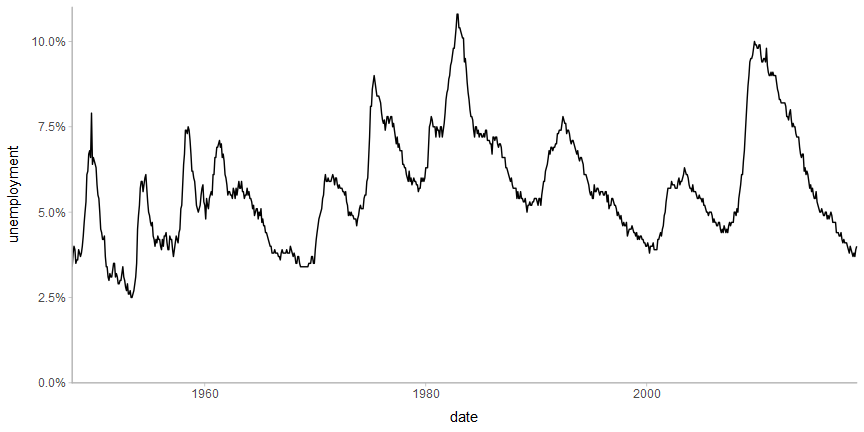
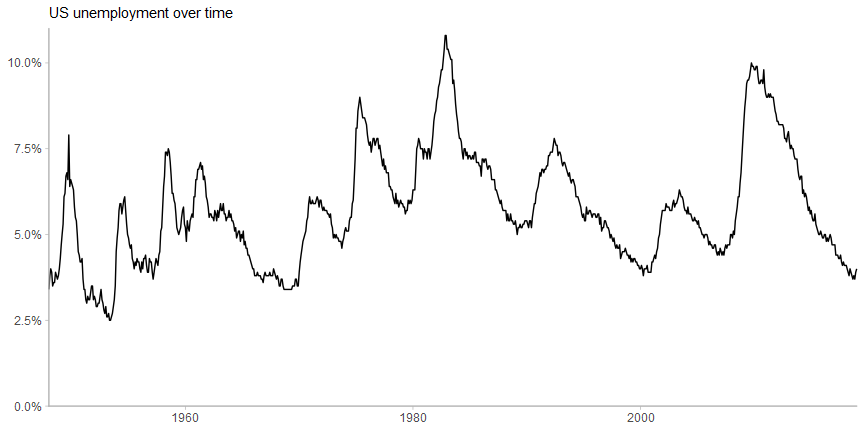
more unemployment stuff

diff --git a/us-unemployment.md b/us-unemployment.md
@@ -59,11 +59,13 @@ y_axis = list(
   coord_cartesian(ylim = c(0, .11), expand = FALSE),
   scale_y_continuous(labels = scales::percent)
 )
+title = labs(x = NULL, y = NULL, subtitle = "US unemployment over time")
 
 df %>%
   ggplot(aes(x = date, y = unemployment)) +
   geom_line() +
-  y_axis
+  y_axis +
+  title 
 ```
 
 ![](us-unemployment_files/figure-gfm/unnamed-chunk-3-1.png)<!-- -->
@@ -83,25 +85,25 @@ m = with(df, bsts(logit_unemployment, state.specification = list() %>%
   niter = 10000))
 ```
 
-    ## =-=-=-=-= Iteration 0 Sat Feb 16 18:51:30 2019
+    ## =-=-=-=-= Iteration 0 Sat Feb 16 21:35:26 2019
     ##  =-=-=-=-=
-    ## =-=-=-=-= Iteration 1000 Sat Feb 16 18:51:39 2019
+    ## =-=-=-=-= Iteration 1000 Sat Feb 16 21:35:35 2019
     ##  =-=-=-=-=
-    ## =-=-=-=-= Iteration 2000 Sat Feb 16 18:51:47 2019
+    ## =-=-=-=-= Iteration 2000 Sat Feb 16 21:35:43 2019
     ##  =-=-=-=-=
-    ## =-=-=-=-= Iteration 3000 Sat Feb 16 18:51:56 2019
+    ## =-=-=-=-= Iteration 3000 Sat Feb 16 21:35:53 2019
     ##  =-=-=-=-=
-    ## =-=-=-=-= Iteration 4000 Sat Feb 16 18:52:05 2019
+    ## =-=-=-=-= Iteration 4000 Sat Feb 16 21:36:02 2019
     ##  =-=-=-=-=
-    ## =-=-=-=-= Iteration 5000 Sat Feb 16 18:52:13 2019
+    ## =-=-=-=-= Iteration 5000 Sat Feb 16 21:36:11 2019
     ##  =-=-=-=-=
-    ## =-=-=-=-= Iteration 6000 Sat Feb 16 18:52:22 2019
+    ## =-=-=-=-= Iteration 6000 Sat Feb 16 21:36:20 2019
     ##  =-=-=-=-=
-    ## =-=-=-=-= Iteration 7000 Sat Feb 16 18:52:30 2019
+    ## =-=-=-=-= Iteration 7000 Sat Feb 16 21:36:28 2019
     ##  =-=-=-=-=
-    ## =-=-=-=-= Iteration 8000 Sat Feb 16 18:52:39 2019
+    ## =-=-=-=-= Iteration 8000 Sat Feb 16 21:36:37 2019
     ##  =-=-=-=-=
-    ## =-=-=-=-= Iteration 9000 Sat Feb 16 18:52:47 2019
+    ## =-=-=-=-= Iteration 9000 Sat Feb 16 21:36:46 2019
     ##  =-=-=-=-=
 
 ## Spaghetti plot
@@ -140,7 +142,8 @@ df %>%
   geom_line(aes(y = .value, group = .draw), alpha = 1/20, data = fits %>% sample_draws(100)) +
   geom_line(aes(y = .prediction, group = .draw), alpha = 1/20, data = predictions %>% sample_draws(100)) +
   geom_point() +
-  y_axis
+  y_axis +
+  title
 ```
 
 ![](us-unemployment_files/figure-gfm/unnamed-chunk-6-1.png)<!-- -->
@@ -154,6 +157,23 @@ fit_color = "#3573b9"
 prediction_color = "#e41a1c"
 
 x_axis = scale_x_date(date_breaks = "1 years", labels = year)
+arrow_spec = arrow(length = unit(6, "points"), type = "closed")
+fit_annotation = list(
+  annotate("text", x = ymd("2014-04-08"), y = .09, hjust = 0, vjust = 0, lineheight = 1.1,
+    label = 'Uncertainty in what\nunemployment'),
+  annotate("text", x = ymd("2014-04-08"), y = .09, hjust = 0, vjust = 0, lineheight = 1.1,
+    label = '\n                         was', color = fit_color, fontface = "bold"),
+  annotate("segment", x = ymd("2015-03-01"), xend = ymd("2015-03-01"), y = .087, yend = .06, linejoin = "mitre",
+    color = fit_color, size = 1, arrow = arrow_spec)
+)
+prediction_annotation = list(
+  annotate("text", x = ymd("2017-12-06"), y = .09, hjust = 0, vjust = 0, lineheight = 1.1,
+    label = 'Uncertainty in what \nunemployment'),
+  annotate("text", x = ymd("2017-12-06"), y = .09, hjust = 0, vjust = 0, lineheight = 1.1,
+    label = '\n                         will be', color = prediction_color, fontface = "bold"),
+  annotate("segment", x = ymd("2019-02-01"), xend = ymd("2019-02-01"), y = .087, yend = .053, linejoin = "mitre",
+    color = prediction_color, size = 1, arrow = arrow_spec)
+)
 
 df %>%
   filter(year(date) >= since_year) %>%
@@ -163,15 +183,40 @@ df %>%
   geom_line(aes(y = .prediction, group = .draw), alpha = 1/20, color = prediction_color, size = .75,
     data = predictions %>% sample_draws(100)) +
   geom_point(size = 0.75) +
+  fit_annotation +
+  prediction_annotation +
   y_axis +
-  x_axis
+  x_axis +
+  title
 ```
 
 ![](us-unemployment_files/figure-gfm/unnamed-chunk-7-1.png)<!-- -->
 
 ## Uncertainty bands
 
-We could instead use predictive bands:
+We could instead use a predictive band:
+
+``` r
+df %>%
+  filter(year(date) >= since_year) %>%
+  ggplot(aes(x = date, y = unemployment)) +
+  stat_lineribbon(aes(y = .value), fill = adjustcolor(fit_color, alpha.f = .25), color = fit_color, .width = .95,
+    data = fits %>% filter(year(date) >= since_year)) +
+  stat_lineribbon(aes(y = .prediction), fill = adjustcolor(prediction_color, alpha.f = .25), color = prediction_color, .width = .95,
+    data = predictions) +
+  geom_point(size = 0.75) +
+  fit_annotation +
+  prediction_annotation +
+  y_axis +
+  x_axis +
+  title
+```
+
+![](us-unemployment_files/figure-gfm/unnamed-chunk-8-1.png)<!-- -->
+
+But that loses a lot of nuance and fixes the reader to whatever
+arbitrary interval the visualization designer chose to display. One
+alternative would be to show many intervals:
 
 ``` r
 df %>%
@@ -180,11 +225,14 @@ df %>%
   stat_lineribbon(aes(y = .value), fill = fit_color, color = fit_color, alpha = 1/5, data = fits %>% filter(year(date) >= since_year)) +
   stat_lineribbon(aes(y = .prediction), fill = prediction_color, color = prediction_color, alpha = 1/5, data = predictions) +
   geom_point(size = 0.75) +
+  fit_annotation +
+  prediction_annotation +
   y_axis +
-  x_axis
+  x_axis +
+  title
 ```
 
-![](us-unemployment_files/figure-gfm/unnamed-chunk-8-1.png)<!-- -->
+![](us-unemployment_files/figure-gfm/unnamed-chunk-9-1.png)<!-- -->
 
 ## Gradient plot
 
@@ -201,11 +249,14 @@ df %>%
   stat_lineribbon(aes(y = .prediction), fill = prediction_color, alpha = 1/n_bands, .width = ppoints(n_bands),
     data = predictions, color = NA) +
   geom_point(size = 0.75) +
+  fit_annotation +
+  prediction_annotation +
   y_axis +
-  x_axis
+  x_axis +
+  title
 ```
 
-![](us-unemployment_files/figure-gfm/unnamed-chunk-9-1.png)<!-- -->
+![](us-unemployment_files/figure-gfm/unnamed-chunk-10-1.png)<!-- -->
 
 ## Density plot
 
@@ -217,7 +268,8 @@ fit_plot = df %>%
   geom_point(size = 0.75) +
   y_axis +
   x_axis +
-  expand_limits(x = ymd("2019-03-01"))
+  expand_limits(x = ymd("2019-03-01")) +
+  title
 
 predict_plot = predictions %>%
   filter(date %in% c(ymd("2019-02-01"), ymd("2019-08-01"), ymd("2020-02-01"))) %>%
@@ -238,7 +290,7 @@ plot_grid(align = "h", axis = "tb", ncol = 2, rel_widths = c(4, 1),
   )
 ```
 
-![](us-unemployment_files/figure-gfm/unnamed-chunk-10-1.png)<!-- -->
+![](us-unemployment_files/figure-gfm/unnamed-chunk-11-1.png)<!-- -->
 
 Can’t decide if I prefer the density normalized within predicted month
 or not:
@@ -263,7 +315,7 @@ plot_grid(align = "h", axis = "tb", ncol = 2, rel_widths = c(4, 1),
   )
 ```
 
-![](us-unemployment_files/figure-gfm/unnamed-chunk-11-1.png)<!-- -->
+![](us-unemployment_files/figure-gfm/unnamed-chunk-12-1.png)<!-- -->
 
 ## Quantile dotplot
 
@@ -284,12 +336,18 @@ predict_plot = predictions %>%
   theme(strip.text.x = element_text(hjust = 0, size = 8))
 
 plot_grid(align = "h", axis = "tb", ncol = 2, rel_widths = c(4, 1),
-  fit_plot,
-  predict_plot
-  )
+    fit_plot,
+    predict_plot
+  ) +
+  draw_grob(grid::rectGrob(gp = grid::gpar(fill = "white", col = NA)), x = .8, y = .75, width = .2, height = .2) +
+  draw_label(x = 0.8, y = .9, hjust = 0, vjust = 1, size = 11, lineheight = 1.1,
+    label = "50 equally likely predictions\nfor what unemployment\nin Feb 2019") +
+  draw_label(x = 0.8, y = .9, hjust = 0, vjust = 1, size = 11, lineheight = 1.1,
+    label = "\n\n                    will be", colour = prediction_color, fontface = "bold") +
+  draw_line(x = c(0.82, 0.82), y = c(.76, .48), size = 1, colour = prediction_color, linejoin = "mitre", arrow = arrow_spec)
 ```
 
-![](us-unemployment_files/figure-gfm/unnamed-chunk-12-1.png)<!-- -->
+![](us-unemployment_files/figure-gfm/unnamed-chunk-13-1.png)<!-- -->
 
 ## HOPs
 
@@ -305,14 +363,16 @@ anim = df %>%
     data = predictions_with_last_obs %>% sample_draws(n_hops)) +
   geom_line(color = "gray75") +
   geom_point(size = 0.75) +
+  prediction_annotation +
   y_axis +
   x_axis +
+  title +
   transition_states(.draw, 0, 1) 
 
 animate(anim, nframes = n_frames, fps = n_frames / n_hops * 2.5, res = 100, width = 900, height = 450, type = "cairo")
 ```
 
-![](us-unemployment_files/figure-gfm/unnamed-chunk-13-1.gif)<!-- -->
+![](us-unemployment_files/figure-gfm/unnamed-chunk-15-1.gif)<!-- -->
 
 Or HOPs with static ensemble in the background:
 
@@ -323,4 +383,4 @@ anim = anim +
 animate(anim, nframes = n_frames, fps = n_frames / n_hops * 2.5, res = 100, width = 900, height = 450, type = "cairo")
 ```
 
-![](us-unemployment_files/figure-gfm/unnamed-chunk-14-1.gif)<!-- -->
+![](us-unemployment_files/figure-gfm/unnamed-chunk-16-1.gif)<!-- -->
